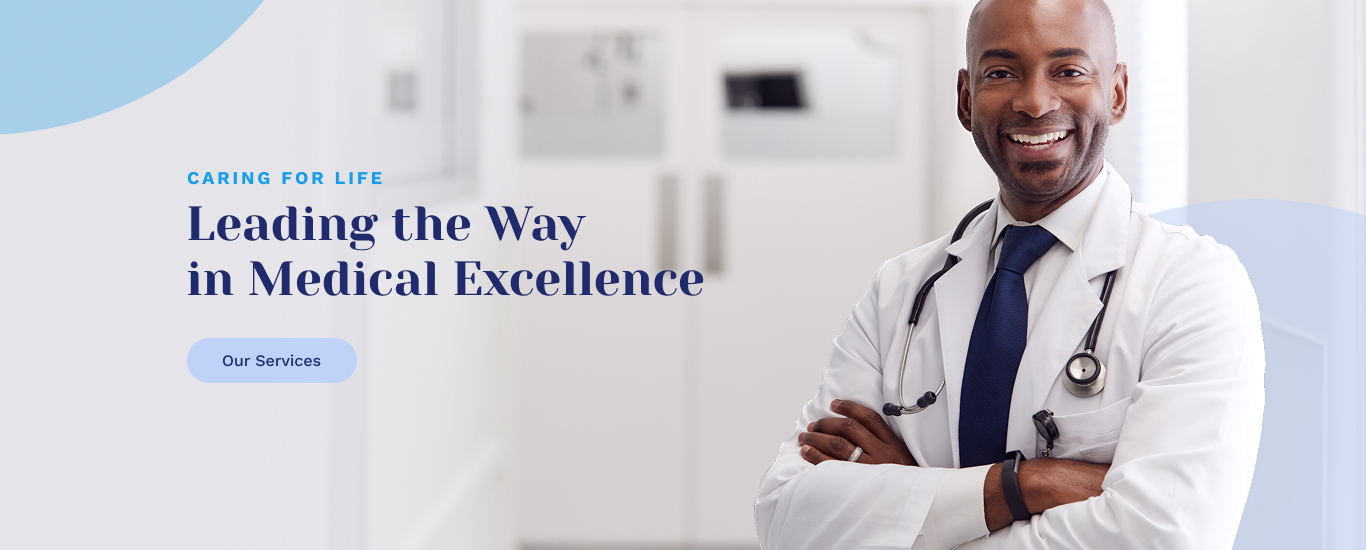
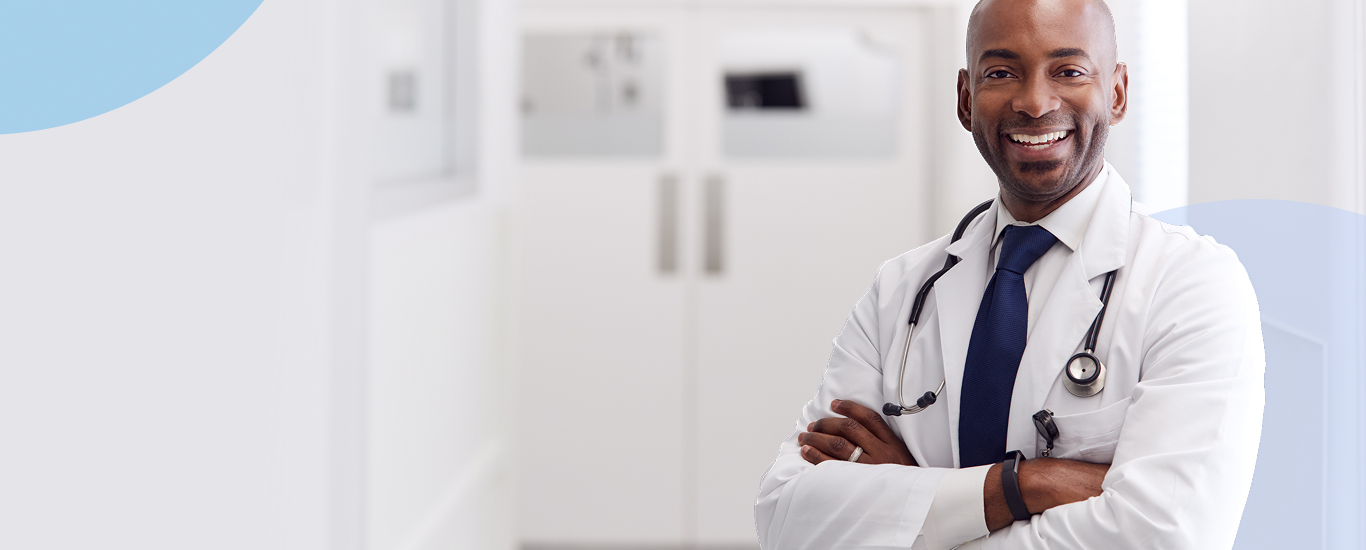
home page created

Changed region(s): [[0.123, 0.3709, 0.5227, 0.5564], [0.123, 0.5873, 0.2767, 0.7109], [0.123, 0.3091, 0.2767, 0.34]]

diff --git a/src/pages/Home/Home.jsx b/src/pages/Home/Home.jsx
@@ -1,12 +1,170 @@
 import React from 'react'
 import './Home.css'
+import banner from '../../assets/Group 51.png'
 import img from '../../assets/Group 94.png'
+import image from '../../assets/Group 183.png'
+import logo from '../../assets/Vector.png'
+import jen from '../../assets/1.png'
+import jon from '../../assets/2.png'
+import jeen from '../../assets/3.png'
+
+const categories = [
+  "Neurology", "Bones", "Oncology", "Otorhinolaryngology",
+  "Ophthalmology", "Cardiovascular", "Pulmonology", "Renal Medicine",
+  "Gastroenterology", "Urology", "Dermatology", "Gynaecology"
+];
+
+const selected = "Bones";
 function Home() {
   return (
-    <div
-      className="text-amber-600 w-full h-screen"
-      style={{ backgroundImage: `url(${img})`, backgroundSize: 'cover', backgroundRepeat: 'no-repeat' }}
-    >
+    <div>
+      <div className="w-full h-[450px]" style={{ backgroundImage: `url(${img})`, backgroundSize: 'cover', backgroundRepeat: 'no-repeat' }}>
+        <div className="ml-[165px] pt-35">
+          <div>
+            <h1 className='text-[#159EEC] font-bold text-xl tracking-widest'>CARING FOR LIFE</h1>
+            <h1 className='text-5xl text-[#1F2B6C] tracking-wide leading-14'>Leading the Way <br /> in Medical Excellence </h1>
+            <button className='text-[#1F2B6C] font-semibold bg-[#BFD2F8] mt-5 px-7 py-1.5 rounded-full'>Our Services</button>
+          </div>
+        </div>
+      </div>
+
+      <div className='h-screen w-full flex items-center justify-center'>
+        <div className='w-[70%] h-screen flex'>
+          <div className='mt-25 text-center'>
+            <h1 className='text-[#159EEC] tracking-[3px] font-bold'>WELCOME TO MEDDICAL</h1>
+            <h1 className='text-3xl tracking-wider text-[#1F2B6C] font-semibold'>A Great Place to Receive Care</h1>
+            <p className='mt-5'>Lorem ipsum dolor sit amet consectetur adipisicing elit.njldknjeklne enknekone kneknek Cumque vero facilis <br /> doloribus nostrum accusamus vel incidunt, esse eum fugit illum, brminus quos porro at impedit totam repellat cupiditate expedita. Ratione.</p>
+            <a class="text-[#159EEC] mt-5 inline-flex items-center">Learn More
+              <svg class="w-4 h-4 ml-2" viewBox="0 0 24 24" stroke="currentColor" stroke-width="2" fill="none" stroke-linecap="round" stroke-linejoin="round">
+                <path d="M5 12h14"></path>
+                <path d="M12 5l7 7-7 7"></path>
+              </svg>
+            </a>
+
+            <div className='mt-15'>
+              <img src={image} alt="" />
+            </div>
+          </div>
+        </div>
+      </div>
+
+      <div className='h-screen w-full flex items-center justify-center'>
+        <div className='w-[80%] h-screen flex'>
+          <div className='text-center w-full '>
+            <h1 className='text-[#159EEC] font-bold text-xl tracking-widest uppercase'>Care you can believe in</h1>
+            <h1 className='text-3xl tracking-wider text-[#1F2B6C] font-semibold'>Our Services</h1>
+
+          </div>
+        </div>
+      </div>
+
+      <div className='h-screen w-full flex items-center justify-center'>
+        <div className='w-[80%] h-screen flex'>
+          <div className='text-center w-full mt-10'>
+            <h1 className='text-[#159EEC] font-bold text-xl tracking-widest uppercase'>Always Caring</h1>
+            <h1 className='text-3xl tracking-wider text-[#1F2B6C] font-semibold'>Our Specialities</h1>
+            <div className="grid grid-cols-4 p-8 bg-white mt-15">
+              {categories.map((category) => (
+                <div
+                  key={category}
+                  className={`flex flex-col items-center justify-center p-6  shadow-sm transition-colors ${category === selected ? 'bg-blue-900 text-white' : 'bg-white text-black'
+                    }`}
+                >
+                  <div className={`text-4xl mb-2 ${category === selected ? 'text-white' : 'text-blue-500'}`}>
+                    <img src={logo} alt="" />
+                  </div>
+                  <div className="text-sm text-center">
+                    {category}
+                  </div>
+                </div>
+              ))}
+            </div>
+          </div>
+        </div>
+      </div>
+
+      <div className="w-full h-[573px] items-center justify-center flex " style={{ backgroundImage: `url(${banner})`, backgroundSize: 'cover', backgroundRepeat: 'no-repeat' }}>
+        <div className="w-[70%]">
+          <div className='grid grid-cols-2'>
+            <div className='mt-35'>
+              <h1 className='text-[#159EEC] font-bold text-xl tracking-widest'>Book an Appointment</h1>
+              <p className='text-sm tracking-wide mt-3'>Lorem ipsum, dolor sit amet consectetur adipisicing elit. Nemo ut corrupti quia vel debitis voluptatem maxime, illo fugit dolorum necessitatibus eveniet suscipit facere dicta provident minus! Recusandae dolorum labore voluptatum!</p>
+            </div>
+            <div className="max-w-xl mx-auto p-4 bg-[#1b2364] rounded-md text-white">
+              <form className="space-y-4">
+                <div className="grid grid-cols-2 gap-4">
+                  <input type="text" placeholder="Name" className="p-2 rounded bg-[#1b2364] border border-gray-300 placeholder-white" />
+                  <select className="p-2 rounded bg-[#1b2364] border border-gray-300 text-white">
+                    <option>Gender</option>
+                    <option>Male</option>
+                    <option>Female</option>
+                  </select>
+
+                  <input type="email" placeholder="Email" className="p-2 rounded bg-[#1b2364] border border-gray-300 placeholder-white" />
+                  <input type="tel" placeholder="Phone" className="p-2 rounded bg-[#1b2364] border border-gray-300 placeholder-white" />
+
+                  <input type="date" className="p-2 rounded bg-[#1b2364] border border-gray-300 text-white" />
+                  <select className="p-2 rounded bg-[#1b2364] border border-gray-300 text-white">
+                    <option>Time</option>
+                    <option>9:00 AM</option>
+                    <option>11:00 AM</option>
+                    <option>1:00 PM</option>
+                  </select>
+
+                  <select className="p-2 rounded bg-[#1b2364] border border-gray-300 text-white">
+                    <option>Doctor</option>
+                    <option>Dr. Smith</option>
+                    <option>Dr. Jane</option>
+                  </select>
+                  <select className="p-2 rounded bg-[#1b2364] border border-gray-300 text-white">
+                    <option>Department</option>
+                    <option>Cardiology</option>
+                    <option>Neurology</option>
+                  </select>
+                </div>
+
+                <textarea placeholder="Message" rows="4" className="w-full p-2 rounded bg-[#1b2364] border border-gray-300 placeholder-white"></textarea>
+
+                <button type="submit" className="w-full bg-[#b3c9f7] text-[#1b2364] font-semibold py-2 rounded">
+                  SUBMIT
+                </button>
+              </form>
+            </div>
+          </div>
+        </div>
+      </div>
+
+      <div className='h-screen w-full flex items-center justify-center'>
+        <div className='w-[70%] h-screen flex'>
+          <div className='text-center w-full mt-15'>
+            <h1 className='text-[#159EEC] font-bold text-xl tracking-widest uppercase'>trusted care</h1>
+            <h1 className='text-3xl tracking-wider text-[#1F2B6C] font-semibold'>Our Doctors</h1>
+            <div className="grid grid-cols-3  mt-13">
+              <div className='h-[480px] w-[300px]'>
+                <img className='w-[317] h-[350px]' src={jen} alt="" />
+                <div className='bg-[#BFD2F8] text-[#1F2B6C]'>
+                  <h1 className='pt-4 tracking-wider'>John</h1>
+                  <h1 className='uppercase font-bold tracking-widest'>Neurology</h1>
+                </div>
+              </div>
+              <div className='h-[480px] w-[300px]'>
+                <img className='w-[317] h-[350px]' src={jon} alt="" />
+                <div className='bg-[#BFD2F8] text-[#1F2B6C]'>
+                  <h1 className='pt-4 tracking-wider'>Thomas</h1>
+                  <h1 className='uppercase font-bold tracking-widest'>Neurology</h1>
+                </div>
+              </div>
+              <div className='h-[480px] w-[300px]'>
+                <img className='w-[317] h-[350px]' src={jeen} alt="" />
+                <div className='bg-[#BFD2F8] text-[#1F2B6C]'>
+                  <h1 className='pt-4 tracking-wider'>Leena</h1>
+                  <h1 className='uppercase font-bold tracking-widest'>Neurology</h1>
+                </div>
+              </div>
+            </div>
+          </div>
+        </div>
+      </div>
 
     </div>
   )

diff --git a/src/components/Navbar/Navbar.jsx b/src/components/Navbar/Navbar.jsx
@@ -11,7 +11,7 @@ function Navbar() {
         <li><a href="#" className="hover:underline">Doctors</a></li>
         <li><a href="#" className="hover:underline">Contacts</a></li>
         <li>
-          <button className="bg-[#BFD2F8] text-[#1F2B6C] flex items-center gap-2 rounded-full px-6 py-2 cursor-pointer hover:bg-[#a8c0f0] transition">
+          <button className="bg-[#BFD2F8] font-semibold text-[#1F2B6C] flex items-center gap-2 rounded-full px-6 py-2 cursor-pointer hover:bg-[#a8c0f0] transition">
             <IoIosSearch /> Appointment
           </button>
         </li>
